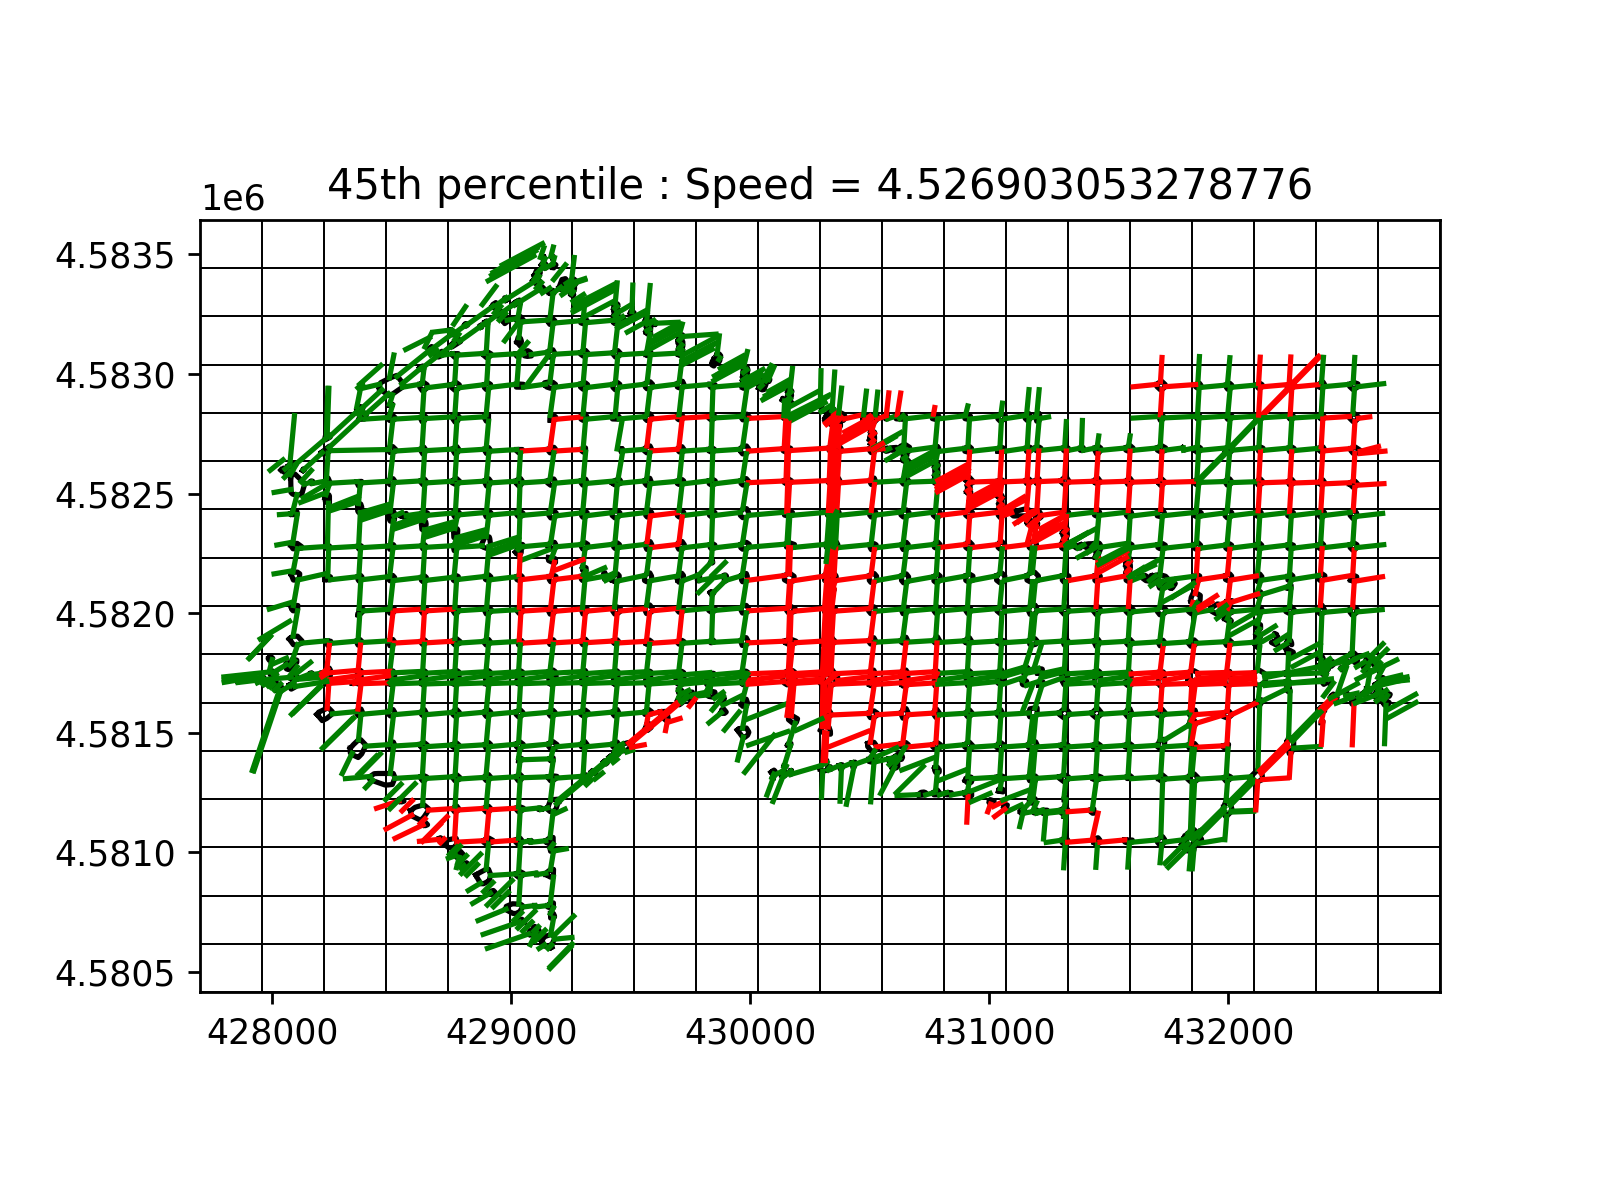
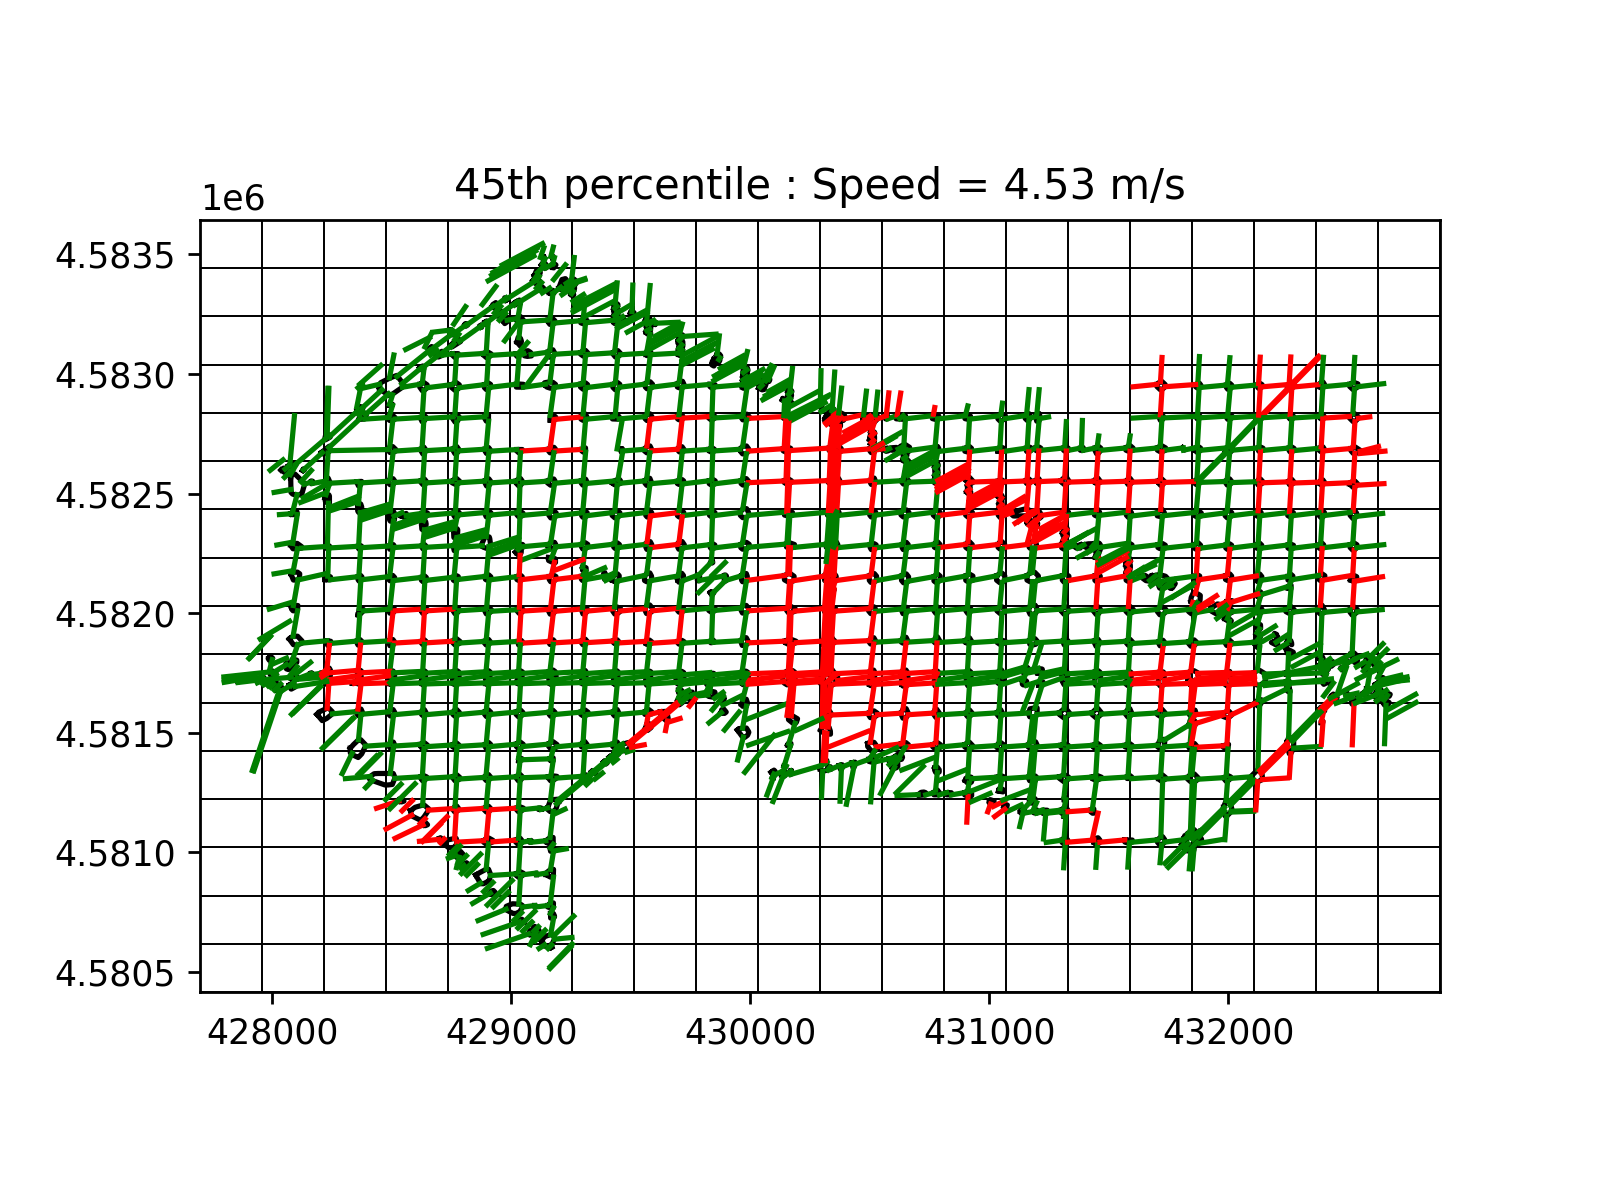
Corrections

Changed region(s): [[0.2188, 0.1233, 0.8125, 0.185]]

diff --git a/main.py b/main.py
@@ -581,7 +581,7 @@ def kmeans_clustering(n_clusters, name, feature_type, random_state=42, threshold
                 [0], [0], 
                 color=cluster_colors[k], 
                 lw=3, 
-                label=f"Cluster {k} – {mean_speed_real:.1f} km/h"
+                label=f"Cluster {k} – {mean_speed_real:.2f} m/s"
             )
         )
 
@@ -1292,7 +1292,7 @@ def grid_clust(xdiv = 4, ydiv = 4, percentile = 65):
     ### Plotting the intersections
     polyg(ax, color="black", zorder=-2)
     
-    ax.set_title(f"{percentile}th percentile : Speed = {perc}")
+    ax.set_title(f"{percentile}th percentile : Speed = {perc:.2f} m/s")
     ax.set_xlim(x_min, x_max)
     ax.set_ylim(y_min, y_max)
     ax.set_aspect("equal")
@@ -1320,9 +1320,10 @@ param_name = [
 
 n_clus = 8
 seeds = np.linspace(0, 9, 10)
-# grid_clust(20, 16, 85)
-# grid_clust(20, 16, 65)
-# grid_clust(20, 16, 45)
+grid_clust(20, 16, 85)
+grid_clust(20, 16, 65)
+grid_clust(20, 16, 55)
+grid_clust(20, 16, 45)
 
 ### Spatial KMeans (multiple seeds)
 # kmeans_clust(n_clus, seeds, "kmeans")
